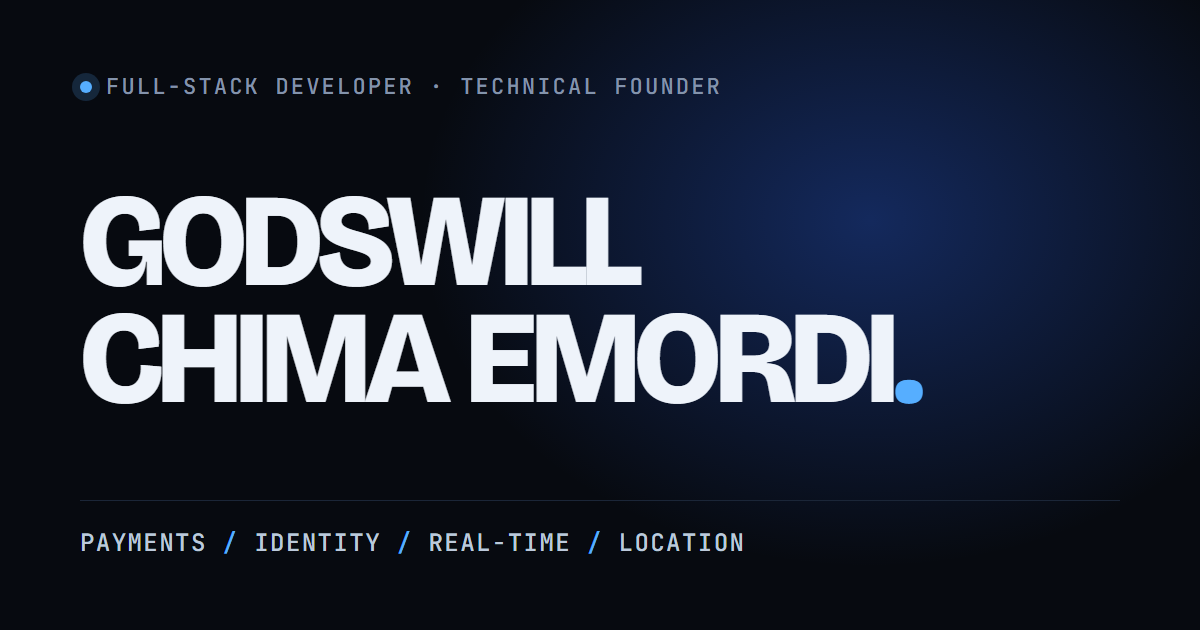
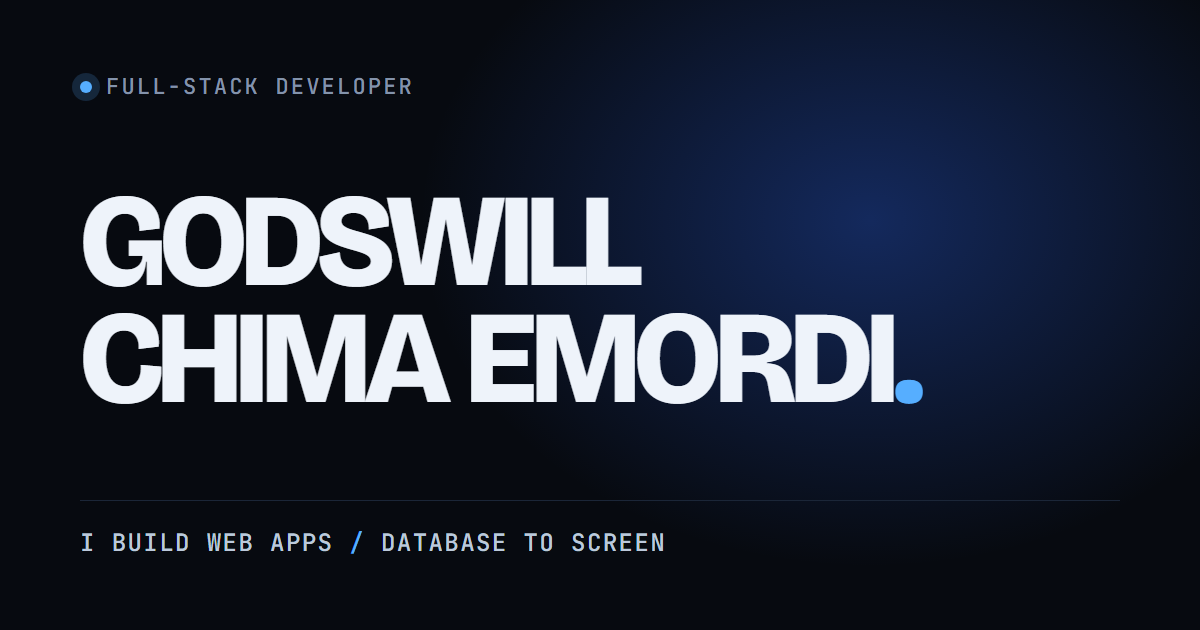
Update share preview image to match new hero copy

Changed region(s): [[0.0617, 0.8444, 0.6167, 0.8746], [0.37, 0.1206, 0.6167, 0.1508]]

diff --git a/index.html b/index.html
@@ -10,7 +10,7 @@
 <meta property="og:description" content="I build web apps end to end: booking platforms, marketplaces and real-time apps. Founder of Coasta, developer of NsukMarket.">
 <link rel="canonical" href="https://portfolio-beta-jet-12.vercel.app/">
 <meta property="og:url" content="https://portfolio-beta-jet-12.vercel.app/">
-<meta property="og:image" content="https://portfolio-beta-jet-12.vercel.app/img/og.png">
+<meta property="og:image" content="https://portfolio-beta-jet-12.vercel.app/img/og.png?v=2">
 <meta property="og:image:width" content="1200">
 <meta property="og:image:height" content="630">
 <meta name="twitter:card" content="summary_large_image">
